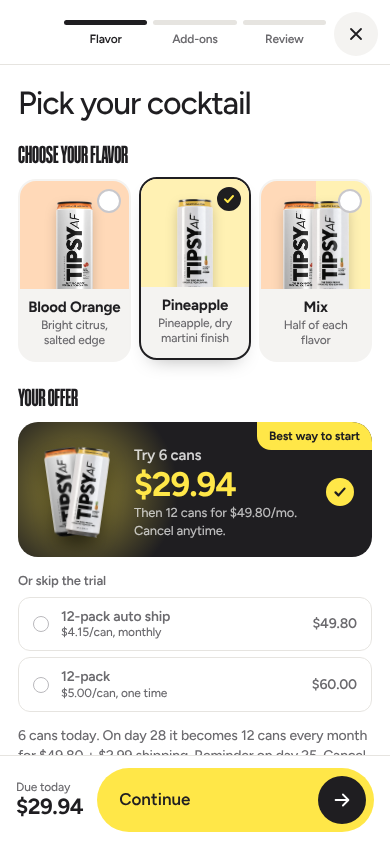
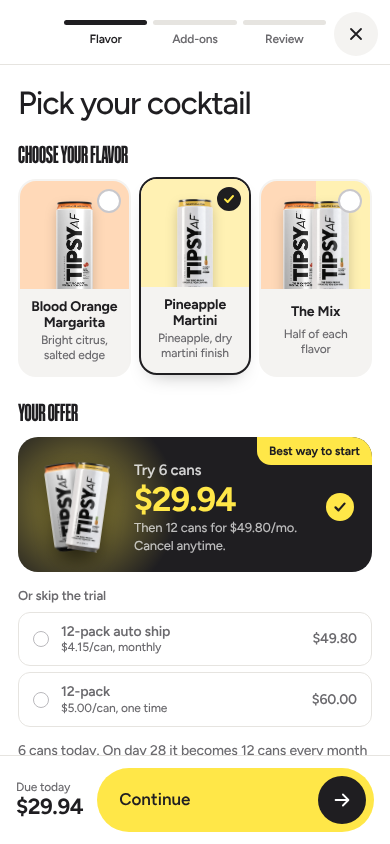
v3: flavor tiles with full names plus three new directions
Tiles (chosen base) now show Blood Orange Margarita and Pineapple Martini.
Adds shelf, pop and chips directions for comparison; drops rows and switch.

Claude-Session: https://claude.ai/code/session_014FM66vq5zwtojFZzRdgT7G

diff --git a/tipsy-af-v3/preview/index.html b/tipsy-af-v3/preview/index.html
@@ -618,46 +618,59 @@ body { margin: 0; background: #fff; }
 .tpm-ftile__box .tpm-fcheck { position: absolute; top: 8px; right: 8px; z-index: 1; width: 24px; height: 24px; }
 .tpm-ftile__img { width: 100%; height: 108px; display: flex; align-items: flex-end; justify-content: center; background: var(--f-bg); margin-bottom: 10px; overflow: hidden; }
 .tpm-ftile__img > img, .tpm-ftile__img .tpm-can-pair img { height: 96px; width: auto; transform: translateY(8px); filter: drop-shadow(0 6px 6px rgba(0,0,0,.18)); }
-.tpm-ftile__name { font-weight: 700; font-size: 15px; letter-spacing: -0.01em; line-height: 1.15; padding: 0 6px; }
+.tpm-ftile__name { font-weight: 700; font-size: 14px; letter-spacing: -0.01em; line-height: 1.15; padding: 0 6px; }
 .tpm-ftile__note { font-size: 12px; color: var(--tpm-muted); line-height: 1.25; padding: 2px 8px 0; }
 .tpm-ftile input:checked + .tpm-ftile__box { border-color: var(--tpm-ink); transform: translateY(-2px); box-shadow: 0 10px 20px -12px rgba(0,0,0,.35); }
 .tpm-step .tpm-ftile__box { background: var(--tpm-panel); }
-
-/* 2. Rows: full-width radio list */
-.tpm-frows { display: grid; gap: 8px; }
-.tpm-frow { display: block; cursor: pointer; }
-.tpm-frow__box { display: grid; grid-template-columns: 64px 1fr auto; gap: 14px; align-items: center; padding: 8px 14px 8px 8px; border-radius: 16px; background: #fff; border: 2.5px solid transparent; transition: border-color .15s; }
-.tpm-frow__img { height: 64px; border-radius: 12px; background: var(--f-bg); display: flex; align-items: flex-end; justify-content: center; overflow: hidden; }
-.tpm-frow__img > img, .tpm-frow__img .tpm-can-pair img { height: 58px; width: auto; transform: translateY(6px); }
-.tpm-frow__text { display: grid; line-height: 1.25; }
-.tpm-frow__text strong { font-size: 16px; }
-.tpm-frow__text span { font-size: 13px; color: var(--tpm-muted); }
-.tpm-frow input:checked + .tpm-frow__box { border-color: var(--tpm-ink); }
-.tpm-step .tpm-frow__box { background: var(--tpm-panel); }
-
-/* 3. Switch: segmented control + big preview of the choice */
-.tpm-fseg { display: flex; gap: 4px; padding: 4px; border-radius: 999px; background: #fff; margin-bottom: 10px; }
-.tpm-step .tpm-fseg { background: var(--tpm-panel); }
-.tpm-fseg__opt { flex: 1 1 auto; position: relative; cursor: pointer; }
-.tpm-fseg__opt span { display: block; text-align: center; padding: 12px 10px; border-radius: 999px; font-weight: 700; font-size: 15px; white-space: nowrap; transition: background-color .15s, color .15s; }
-.tpm-fseg__opt input:checked + span { background: var(--tpm-ink); color: #fff; }
-.tpm-fstage__panel { display: grid; grid-template-columns: 110px 1fr; gap: 16px; align-items: center; border-radius: 20px; background: var(--f-bg); padding: 0 18px 0 6px; height: 132px; overflow: hidden; }
-.tpm-fstage__panel[hidden] { display: none; }
-.tpm-fstage__img { display: flex; align-items: flex-end; justify-content: center; height: 100%; }
-.tpm-fstage__img > img, .tpm-fstage__img .tpm-can-pair img { height: 128px; width: auto; transform: translateY(14px) rotate(-6deg); filter: drop-shadow(0 10px 10px rgba(0,0,0,.2)); }
-.tpm-fstage__text { display: grid; line-height: 1.2; }
-.tpm-fstage__text strong { font-family: var(--tpm-cond); text-transform: uppercase; font-size: 30px; font-weight: 400; line-height: .95; }
-.tpm-fstage__text span { font-size: 14px; color: #4a4630; margin-top: 4px; }
-@media (prefers-reduced-motion: no-preference) {
-  .tpm-fstage__panel:not([hidden]) { animation: tpm-fstage-in .3s ease; }
-}
-@keyframes tpm-fstage-in { from { opacity: 0; transform: translateY(6px); } to { opacity: 1; transform: none; } }
 
 /* Preview-only design switcher */
 .tpm-styleswitch { position: fixed; left: 50%; top: 10px; transform: translateX(-50%); z-index: 2147483000; display: flex; align-items: center; gap: 4px; padding: 5px 5px 5px 14px; border-radius: 999px; background: rgba(31,30,33,.92); color: #fff; font-size: 13px; font-weight: 600; box-shadow: 0 8px 24px rgba(0,0,0,.25); }
 .tpm-styleswitch span { margin-right: 6px; white-space: nowrap; }
 .tpm-styleswitch button { width: 34px; height: 34px; border-radius: 50%; border: 0; background: rgba(255,255,255,.12); color: #fff; font-weight: 700; cursor: pointer; }
 .tpm-styleswitch button[aria-pressed="true"] { background: var(--tpm-accent); color: var(--tpm-ink); }
+
+/* 2. Shelf: cans on a shelf, chosen can rises into a spotlight */
+.tpm-shelf { position: relative; display: grid; grid-template-columns: repeat(3, 1fr); align-items: end; padding: 18px 4px 0; border-radius: 20px; background: var(--tpm-ink); overflow: hidden; }
+.tpm-shelf::after { content: ""; position: absolute; left: 0; right: 0; bottom: 64px; height: 6px; background: rgba(255,255,255,.12); }
+.tpm-shelf__opt { position: relative; display: block; cursor: pointer; }
+.tpm-shelf__box { position: relative; display: grid; justify-items: center; text-align: center; padding-bottom: 12px; }
+.tpm-shelf__box::before { content: ""; position: absolute; left: 50%; bottom: 70px; width: 140px; height: 140px; margin-left: -70px; border-radius: 50%; background: radial-gradient(closest-side, var(--f-deep), rgba(0,0,0,0)); opacity: 0; transition: opacity .25s; }
+.tpm-shelf__img { position: relative; z-index: 1; height: 132px; display: flex; align-items: flex-end; justify-content: center; transition: transform .3s cubic-bezier(.3,1.5,.5,1), filter .25s; filter: grayscale(.6) brightness(.7); }
+.tpm-shelf__img > img, .tpm-shelf__img .tpm-can-pair img { height: 118px; width: auto; filter: drop-shadow(0 8px 8px rgba(0,0,0,.4)); }
+.tpm-shelf__name { position: relative; z-index: 1; margin-top: 14px; min-height: 34px; font-size: 13px; font-weight: 600; line-height: 1.25; color: rgba(255,255,255,.55); padding: 0 4px; }
+.tpm-shelf__opt input:checked + .tpm-shelf__box::before { opacity: .7; }
+.tpm-shelf__opt input:checked + .tpm-shelf__box .tpm-shelf__img { transform: translateY(-10px) scale(1.08); filter: none; }
+.tpm-shelf__opt input:checked + .tpm-shelf__box .tpm-shelf__name { color: #fff; }
+.tpm-shelf__opt input:checked + .tpm-shelf__box .tpm-shelf__name::after { content: ""; display: block; width: 22px; height: 3px; border-radius: 3px; background: var(--tpm-accent); margin: 6px auto 0; }
+.tpm-shelf__note { margin-top: 10px; font-size: 14px; color: var(--tpm-muted); text-align: center; }
+
+/* 3. Pop: full-color cards, can breaking out of the top */
+.tpm-pop { display: grid; grid-template-columns: repeat(3, 1fr); gap: 8px; padding-top: 34px; }
+.tpm-pop__opt { position: relative; display: block; cursor: pointer; }
+.tpm-pop__box { position: relative; display: grid; justify-items: center; text-align: center; height: 100%; padding: 76px 8px 14px; border-radius: 18px; background: var(--f-bg); border: 2.5px solid transparent; transition: transform .2s, border-color .15s, opacity .2s; }
+.tpm-pop__img { position: absolute; top: -34px; left: 0; right: 0; display: flex; justify-content: center; }
+.tpm-pop__img > img, .tpm-pop__img .tpm-can-pair img { height: 104px; width: auto; filter: drop-shadow(0 10px 10px rgba(0,0,0,.25)); transition: transform .25s cubic-bezier(.3,1.5,.5,1); }
+.tpm-pop__box .tpm-fcheck { position: absolute; top: 8px; right: 8px; width: 22px; height: 22px; }
+.tpm-pop__name { font-family: var(--tpm-cond); text-transform: uppercase; font-size: 20px; line-height: .95; }
+.tpm-pop__note { font-size: 12px; color: #5a4a2a; line-height: 1.25; margin-top: 4px; }
+.tpm-pop__opt input:not(:checked) + .tpm-pop__box { opacity: .6; }
+.tpm-pop__opt input:checked + .tpm-pop__box { border-color: var(--tpm-ink); transform: translateY(-3px); }
+.tpm-pop__opt input:checked + .tpm-pop__box .tpm-pop__img img { transform: rotate(-6deg) scale(1.06); }
+
+/* 4. Chips: compact, chosen one expands with its note */
+.tpm-chips { display: flex; flex-wrap: wrap; gap: 8px; }
+.tpm-chip2 { position: relative; display: block; cursor: pointer; flex: 1 1 100%; }
+.tpm-chip2.tpm-f--mix { flex-basis: 100%; }
+.tpm-chip2__box { display: grid; grid-template-columns: 44px 1fr auto; gap: 10px; align-items: center; padding: 6px 12px 6px 6px; border-radius: 999px; background: #fff; border: 2.5px solid transparent; transition: border-color .15s, border-radius .2s; }
+.tpm-step .tpm-chip2__box { background: var(--tpm-panel); }
+.tpm-chip2__img { width: 44px; height: 44px; border-radius: 50%; background: var(--f-bg); display: flex; align-items: flex-end; justify-content: center; overflow: hidden; }
+.tpm-chip2__img > img, .tpm-chip2__img .tpm-can-pair img { height: 40px; width: auto; transform: translateY(5px); }
+.tpm-chip2__text { display: grid; line-height: 1.2; min-width: 0; }
+.tpm-chip2__text strong { font-size: 14px; }
+.tpm-chip2__text span { display: none; font-size: 12px; color: var(--tpm-muted); }
+.tpm-chip2__box .tpm-fcheck { width: 22px; height: 22px; }
+.tpm-chip2 input:checked + .tpm-chip2__box { border-color: var(--tpm-ink); border-radius: 18px; }
+.tpm-chip2 input:checked + .tpm-chip2__box .tpm-chip2__text span { display: block; }
 
 </style>
 </head>
@@ -1236,8 +1249,8 @@ body { margin: 0; background: #fff; }
   }
 
   var pickerCount = 0;
-  // Flavor selector design direction: 'tiles', 'rows' or 'switch'.
-  var FLAVOR_STYLES = ['tiles', 'rows', 'switch'];
+  // Flavor selector design direction: 'tiles' (chosen), 'shelf', 'pop' or 'chips'.
+  var FLAVOR_STYLES = ['tiles', 'shelf', 'pop', 'chips'];
   var flavorStyle = String(DATA.flavorStyle || '').trim();
   if (MODE === 'preview') {
     var fq = (window.location.search.match(/[?&]flavor=(\w+)/) || [])[1];
@@ -1252,27 +1265,37 @@ body { margin: 0; background: #fff; }
   function flavorsHtml(n) {
     var keys = Object.keys(DATA.flavors);
     var legend = '<legend class="tpm-pick__label">Choose your flavor</legend>';
-    if (flavorStyle === 'rows') {
-      return '<fieldset class="tpm-flav tpm-flav--rows">' + legend + '<div class="tpm-frows">' + keys.map(function (f) {
+    var wrap = function (mod, inner) { return '<fieldset class="tpm-flav tpm-flav--' + mod + '">' + legend + inner + '</fieldset>'; };
+
+    if (flavorStyle === 'shelf') {
+      // Cans standing on a shelf; the chosen can rises into a spotlight.
+      return wrap('shelf', '<div class="tpm-shelf">' + keys.map(function (f) {
         var d = DATA.flavors[f];
-        return flavorRadio(n, f, 'tpm-frow', '<span class="tpm-frow__box"><span class="tpm-frow__img">' + canStack(f) + '</span>' +
-          '<span class="tpm-frow__text"><strong>' + d.name + '</strong><span>' + d.note + '</span></span>' + CHECK + '</span>');
-      }).join('') + '</div></fieldset>';
+        return flavorRadio(n, f, 'tpm-shelf__opt', '<span class="tpm-shelf__box"><span class="tpm-shelf__img">' + canStack(f) + '</span>' +
+          '<span class="tpm-shelf__name">' + d.name + '</span></span>');
+      }).join('') + '</div><p class="tpm-shelf__note" data-tpm-fnote></p>');
     }
-    if (flavorStyle === 'switch') {
-      return '<fieldset class="tpm-flav tpm-flav--switch">' + legend + '<div class="tpm-fseg">' + keys.map(function (f) {
-        return flavorRadio(n, f, 'tpm-fseg__opt', '<span>' + DATA.flavors[f].short + '</span>');
-      }).join('') + '</div><div class="tpm-fstage">' + keys.map(function (f) {
+    if (flavorStyle === 'pop') {
+      // Full-color cards with the can breaking out of the top edge.
+      return wrap('pop', '<div class="tpm-pop">' + keys.map(function (f) {
         var d = DATA.flavors[f];
-        return '<div class="tpm-fstage__panel tpm-f--' + f + '" data-tpm-fpanel="' + f + '" hidden><span class="tpm-fstage__img">' + canStack(f) + '</span>' +
-          '<span class="tpm-fstage__text"><strong>' + d.name + '</strong><span>' + d.note + '</span></span></div>';
-      }).join('') + '</div></fieldset>';
+        return flavorRadio(n, f, 'tpm-pop__opt', '<span class="tpm-pop__box"><span class="tpm-pop__img">' + canStack(f) + '</span>' + CHECK +
+          '<span class="tpm-pop__name">' + d.name + '</span><span class="tpm-pop__note">' + d.note + '</span></span>');
+      }).join('') + '</div>');
     }
-    return '<fieldset class="tpm-flav tpm-flav--tiles">' + legend + '<div class="tpm-ftiles">' + keys.map(function (f) {
+    if (flavorStyle === 'chips') {
+      // Compact chips; the chosen one expands with its taste note.
+      return wrap('chips', '<div class="tpm-chips">' + keys.map(function (f) {
+        var d = DATA.flavors[f];
+        return flavorRadio(n, f, 'tpm-chip2', '<span class="tpm-chip2__box"><span class="tpm-chip2__img">' + canStack(f) + '</span>' +
+          '<span class="tpm-chip2__text"><strong>' + d.name + '</strong><span>' + d.note + '</span></span>' + CHECK + '</span>');
+      }).join('') + '</div>');
+    }
+    return wrap('tiles', '<div class="tpm-ftiles">' + keys.map(function (f) {
       var d = DATA.flavors[f];
       return flavorRadio(n, f, 'tpm-ftile', '<span class="tpm-ftile__box">' + CHECK + '<span class="tpm-ftile__img">' + canStack(f) + '</span>' +
-        '<span class="tpm-ftile__name">' + d.short + '</span><span class="tpm-ftile__note">' + d.note + '</span></span>');
-    }).join('') + '</div></fieldset>';
+        '<span class="tpm-ftile__name">' + d.name + '</span><span class="tpm-ftile__note">' + d.note + '</span></span>');
+    }).join('') + '</div>');
   }
 
   function pickerHtml(n) {
@@ -1467,7 +1490,7 @@ body { margin: 0; background: #fff; }
       i.checked = (i.name.indexOf('tpm-flavor-') === 0 && i.value === state.flavor) ||
         (i.name.indexOf('tpm-offer-') === 0 && i.value === state.offer);
     });
-    $all('[data-tpm-fpanel]').forEach(function (p) { p.hidden = p.getAttribute('data-tpm-fpanel') !== state.flavor; });
+    $all('[data-tpm-fnote]').forEach(function (p) { p.textContent = DATA.flavors[state.flavor].note; });
     $all('[data-tpm-terms]').forEach(function (t) {
       t.textContent = (state.flavor === 'mix' ? o.split + '. ' : '') + o.terms;
     });

diff --git a/tipsy-af-v3/src/page.css b/tipsy-af-v3/src/page.css
@@ -596,43 +596,56 @@
 .tpm-ftile__box .tpm-fcheck { position: absolute; top: 8px; right: 8px; z-index: 1; width: 24px; height: 24px; }
 .tpm-ftile__img { width: 100%; height: 108px; display: flex; align-items: flex-end; justify-content: center; background: var(--f-bg); margin-bottom: 10px; overflow: hidden; }
 .tpm-ftile__img > img, .tpm-ftile__img .tpm-can-pair img { height: 96px; width: auto; transform: translateY(8px); filter: drop-shadow(0 6px 6px rgba(0,0,0,.18)); }
-.tpm-ftile__name { font-weight: 700; font-size: 15px; letter-spacing: -0.01em; line-height: 1.15; padding: 0 6px; }
+.tpm-ftile__name { font-weight: 700; font-size: 14px; letter-spacing: -0.01em; line-height: 1.15; padding: 0 6px; }
 .tpm-ftile__note { font-size: 12px; color: var(--tpm-muted); line-height: 1.25; padding: 2px 8px 0; }
 .tpm-ftile input:checked + .tpm-ftile__box { border-color: var(--tpm-ink); transform: translateY(-2px); box-shadow: 0 10px 20px -12px rgba(0,0,0,.35); }
 .tpm-step .tpm-ftile__box { background: var(--tpm-panel); }
-
-/* 2. Rows: full-width radio list */
-.tpm-frows { display: grid; gap: 8px; }
-.tpm-frow { display: block; cursor: pointer; }
-.tpm-frow__box { display: grid; grid-template-columns: 64px 1fr auto; gap: 14px; align-items: center; padding: 8px 14px 8px 8px; border-radius: 16px; background: #fff; border: 2.5px solid transparent; transition: border-color .15s; }
-.tpm-frow__img { height: 64px; border-radius: 12px; background: var(--f-bg); display: flex; align-items: flex-end; justify-content: center; overflow: hidden; }
-.tpm-frow__img > img, .tpm-frow__img .tpm-can-pair img { height: 58px; width: auto; transform: translateY(6px); }
-.tpm-frow__text { display: grid; line-height: 1.25; }
-.tpm-frow__text strong { font-size: 16px; }
-.tpm-frow__text span { font-size: 13px; color: var(--tpm-muted); }
-.tpm-frow input:checked + .tpm-frow__box { border-color: var(--tpm-ink); }
-.tpm-step .tpm-frow__box { background: var(--tpm-panel); }
-
-/* 3. Switch: segmented control + big preview of the choice */
-.tpm-fseg { display: flex; gap: 4px; padding: 4px; border-radius: 999px; background: #fff; margin-bottom: 10px; }
-.tpm-step .tpm-fseg { background: var(--tpm-panel); }
-.tpm-fseg__opt { flex: 1 1 auto; position: relative; cursor: pointer; }
-.tpm-fseg__opt span { display: block; text-align: center; padding: 12px 10px; border-radius: 999px; font-weight: 700; font-size: 15px; white-space: nowrap; transition: background-color .15s, color .15s; }
-.tpm-fseg__opt input:checked + span { background: var(--tpm-ink); color: #fff; }
-.tpm-fstage__panel { display: grid; grid-template-columns: 110px 1fr; gap: 16px; align-items: center; border-radius: 20px; background: var(--f-bg); padding: 0 18px 0 6px; height: 132px; overflow: hidden; }
-.tpm-fstage__panel[hidden] { display: none; }
-.tpm-fstage__img { display: flex; align-items: flex-end; justify-content: center; height: 100%; }
-.tpm-fstage__img > img, .tpm-fstage__img .tpm-can-pair img { height: 128px; width: auto; transform: translateY(14px) rotate(-6deg); filter: drop-shadow(0 10px 10px rgba(0,0,0,.2)); }
-.tpm-fstage__text { display: grid; line-height: 1.2; }
-.tpm-fstage__text strong { font-family: var(--tpm-cond); text-transform: uppercase; font-size: 30px; font-weight: 400; line-height: .95; }
-.tpm-fstage__text span { font-size: 14px; color: #4a4630; margin-top: 4px; }
-@media (prefers-reduced-motion: no-preference) {
-  .tpm-fstage__panel:not([hidden]) { animation: tpm-fstage-in .3s ease; }
-}
-@keyframes tpm-fstage-in { from { opacity: 0; transform: translateY(6px); } to { opacity: 1; transform: none; } }
 
 /* Preview-only design switcher */
 .tpm-styleswitch { position: fixed; left: 50%; top: 10px; transform: translateX(-50%); z-index: 2147483000; display: flex; align-items: center; gap: 4px; padding: 5px 5px 5px 14px; border-radius: 999px; background: rgba(31,30,33,.92); color: #fff; font-size: 13px; font-weight: 600; box-shadow: 0 8px 24px rgba(0,0,0,.25); }
 .tpm-styleswitch span { margin-right: 6px; white-space: nowrap; }
 .tpm-styleswitch button { width: 34px; height: 34px; border-radius: 50%; border: 0; background: rgba(255,255,255,.12); color: #fff; font-weight: 700; cursor: pointer; }
 .tpm-styleswitch button[aria-pressed="true"] { background: var(--tpm-accent); color: var(--tpm-ink); }
+
+/* 2. Shelf: cans on a shelf, chosen can rises into a spotlight */
+.tpm-shelf { position: relative; display: grid; grid-template-columns: repeat(3, 1fr); align-items: end; padding: 18px 4px 0; border-radius: 20px; background: var(--tpm-ink); overflow: hidden; }
+.tpm-shelf::after { content: ""; position: absolute; left: 0; right: 0; bottom: 64px; height: 6px; background: rgba(255,255,255,.12); }
+.tpm-shelf__opt { position: relative; display: block; cursor: pointer; }
+.tpm-shelf__box { position: relative; display: grid; justify-items: center; text-align: center; padding-bottom: 12px; }
+.tpm-shelf__box::before { content: ""; position: absolute; left: 50%; bottom: 70px; width: 140px; height: 140px; margin-left: -70px; border-radius: 50%; background: radial-gradient(closest-side, var(--f-deep), rgba(0,0,0,0)); opacity: 0; transition: opacity .25s; }
+.tpm-shelf__img { position: relative; z-index: 1; height: 132px; display: flex; align-items: flex-end; justify-content: center; transition: transform .3s cubic-bezier(.3,1.5,.5,1), filter .25s; filter: grayscale(.6) brightness(.7); }
+.tpm-shelf__img > img, .tpm-shelf__img .tpm-can-pair img { height: 118px; width: auto; filter: drop-shadow(0 8px 8px rgba(0,0,0,.4)); }
+.tpm-shelf__name { position: relative; z-index: 1; margin-top: 14px; min-height: 34px; font-size: 13px; font-weight: 600; line-height: 1.25; color: rgba(255,255,255,.55); padding: 0 4px; }
+.tpm-shelf__opt input:checked + .tpm-shelf__box::before { opacity: .7; }
+.tpm-shelf__opt input:checked + .tpm-shelf__box .tpm-shelf__img { transform: translateY(-10px) scale(1.08); filter: none; }
+.tpm-shelf__opt input:checked + .tpm-shelf__box .tpm-shelf__name { color: #fff; }
+.tpm-shelf__opt input:checked + .tpm-shelf__box .tpm-shelf__name::after { content: ""; display: block; width: 22px; height: 3px; border-radius: 3px; background: var(--tpm-accent); margin: 6px auto 0; }
+.tpm-shelf__note { margin-top: 10px; font-size: 14px; color: var(--tpm-muted); text-align: center; }
+
+/* 3. Pop: full-color cards, can breaking out of the top */
+.tpm-pop { display: grid; grid-template-columns: repeat(3, 1fr); gap: 8px; padding-top: 34px; }
+.tpm-pop__opt { position: relative; display: block; cursor: pointer; }
+.tpm-pop__box { position: relative; display: grid; justify-items: center; text-align: center; height: 100%; padding: 76px 8px 14px; border-radius: 18px; background: var(--f-bg); border: 2.5px solid transparent; transition: transform .2s, border-color .15s, opacity .2s; }
+.tpm-pop__img { position: absolute; top: -34px; left: 0; right: 0; display: flex; justify-content: center; }
+.tpm-pop__img > img, .tpm-pop__img .tpm-can-pair img { height: 104px; width: auto; filter: drop-shadow(0 10px 10px rgba(0,0,0,.25)); transition: transform .25s cubic-bezier(.3,1.5,.5,1); }
+.tpm-pop__box .tpm-fcheck { position: absolute; top: 8px; right: 8px; width: 22px; height: 22px; }
+.tpm-pop__name { font-family: var(--tpm-cond); text-transform: uppercase; font-size: 20px; line-height: .95; }
+.tpm-pop__note { font-size: 12px; color: #5a4a2a; line-height: 1.25; margin-top: 4px; }
+.tpm-pop__opt input:not(:checked) + .tpm-pop__box { opacity: .6; }
+.tpm-pop__opt input:checked + .tpm-pop__box { border-color: var(--tpm-ink); transform: translateY(-3px); }
+.tpm-pop__opt input:checked + .tpm-pop__box .tpm-pop__img img { transform: rotate(-6deg) scale(1.06); }
+
+/* 4. Chips: compact, chosen one expands with its note */
+.tpm-chips { display: flex; flex-wrap: wrap; gap: 8px; }
+.tpm-chip2 { position: relative; display: block; cursor: pointer; flex: 1 1 100%; }
+.tpm-chip2.tpm-f--mix { flex-basis: 100%; }
+.tpm-chip2__box { display: grid; grid-template-columns: 44px 1fr auto; gap: 10px; align-items: center; padding: 6px 12px 6px 6px; border-radius: 999px; background: #fff; border: 2.5px solid transparent; transition: border-color .15s, border-radius .2s; }
+.tpm-step .tpm-chip2__box { background: var(--tpm-panel); }
+.tpm-chip2__img { width: 44px; height: 44px; border-radius: 50%; background: var(--f-bg); display: flex; align-items: flex-end; justify-content: center; overflow: hidden; }
+.tpm-chip2__img > img, .tpm-chip2__img .tpm-can-pair img { height: 40px; width: auto; transform: translateY(5px); }
+.tpm-chip2__text { display: grid; line-height: 1.2; min-width: 0; }
+.tpm-chip2__text strong { font-size: 14px; }
+.tpm-chip2__text span { display: none; font-size: 12px; color: var(--tpm-muted); }
+.tpm-chip2__box .tpm-fcheck { width: 22px; height: 22px; }
+.tpm-chip2 input:checked + .tpm-chip2__box { border-color: var(--tpm-ink); border-radius: 18px; }
+.tpm-chip2 input:checked + .tpm-chip2__box .tpm-chip2__text span { display: block; }

diff --git a/tipsy-af-v3/src/page.js b/tipsy-af-v3/src/page.js
@@ -114,8 +114,8 @@
   }
 
   var pickerCount = 0;
-  // Flavor selector design direction: 'tiles', 'rows' or 'switch'.
-  var FLAVOR_STYLES = ['tiles', 'rows', 'switch'];
+  // Flavor selector design direction: 'tiles' (chosen), 'shelf', 'pop' or 'chips'.
+  var FLAVOR_STYLES = ['tiles', 'shelf', 'pop', 'chips'];
   var flavorStyle = String(DATA.flavorStyle || '').trim();
   if (MODE === 'preview') {
     var fq = (window.location.search.match(/[?&]flavor=(\w+)/) || [])[1];
@@ -130,27 +130,37 @@
   function flavorsHtml(n) {
     var keys = Object.keys(DATA.flavors);
     var legend = '<legend class="tpm-pick__label">Choose your flavor</legend>';
-    if (flavorStyle === 'rows') {
-      return '<fieldset class="tpm-flav tpm-flav--rows">' + legend + '<div class="tpm-frows">' + keys.map(function (f) {
+    var wrap = function (mod, inner) { return '<fieldset class="tpm-flav tpm-flav--' + mod + '">' + legend + inner + '</fieldset>'; };
+
+    if (flavorStyle === 'shelf') {
+      // Cans standing on a shelf; the chosen can rises into a spotlight.
+      return wrap('shelf', '<div class="tpm-shelf">' + keys.map(function (f) {
         var d = DATA.flavors[f];
-        return flavorRadio(n, f, 'tpm-frow', '<span class="tpm-frow__box"><span class="tpm-frow__img">' + canStack(f) + '</span>' +
-          '<span class="tpm-frow__text"><strong>' + d.name + '</strong><span>' + d.note + '</span></span>' + CHECK + '</span>');
-      }).join('') + '</div></fieldset>';
+        return flavorRadio(n, f, 'tpm-shelf__opt', '<span class="tpm-shelf__box"><span class="tpm-shelf__img">' + canStack(f) + '</span>' +
+          '<span class="tpm-shelf__name">' + d.name + '</span></span>');
+      }).join('') + '</div><p class="tpm-shelf__note" data-tpm-fnote></p>');
     }
-    if (flavorStyle === 'switch') {
-      return '<fieldset class="tpm-flav tpm-flav--switch">' + legend + '<div class="tpm-fseg">' + keys.map(function (f) {
-        return flavorRadio(n, f, 'tpm-fseg__opt', '<span>' + DATA.flavors[f].short + '</span>');
-      }).join('') + '</div><div class="tpm-fstage">' + keys.map(function (f) {
+    if (flavorStyle === 'pop') {
+      // Full-color cards with the can breaking out of the top edge.
+      return wrap('pop', '<div class="tpm-pop">' + keys.map(function (f) {
         var d = DATA.flavors[f];
-        return '<div class="tpm-fstage__panel tpm-f--' + f + '" data-tpm-fpanel="' + f + '" hidden><span class="tpm-fstage__img">' + canStack(f) + '</span>' +
-          '<span class="tpm-fstage__text"><strong>' + d.name + '</strong><span>' + d.note + '</span></span></div>';
-      }).join('') + '</div></fieldset>';
+        return flavorRadio(n, f, 'tpm-pop__opt', '<span class="tpm-pop__box"><span class="tpm-pop__img">' + canStack(f) + '</span>' + CHECK +
+          '<span class="tpm-pop__name">' + d.name + '</span><span class="tpm-pop__note">' + d.note + '</span></span>');
+      }).join('') + '</div>');
     }
-    return '<fieldset class="tpm-flav tpm-flav--tiles">' + legend + '<div class="tpm-ftiles">' + keys.map(function (f) {
+    if (flavorStyle === 'chips') {
+      // Compact chips; the chosen one expands with its taste note.
+      return wrap('chips', '<div class="tpm-chips">' + keys.map(function (f) {
+        var d = DATA.flavors[f];
+        return flavorRadio(n, f, 'tpm-chip2', '<span class="tpm-chip2__box"><span class="tpm-chip2__img">' + canStack(f) + '</span>' +
+          '<span class="tpm-chip2__text"><strong>' + d.name + '</strong><span>' + d.note + '</span></span>' + CHECK + '</span>');
+      }).join('') + '</div>');
+    }
+    return wrap('tiles', '<div class="tpm-ftiles">' + keys.map(function (f) {
       var d = DATA.flavors[f];
       return flavorRadio(n, f, 'tpm-ftile', '<span class="tpm-ftile__box">' + CHECK + '<span class="tpm-ftile__img">' + canStack(f) + '</span>' +
-        '<span class="tpm-ftile__name">' + d.short + '</span><span class="tpm-ftile__note">' + d.note + '</span></span>');
-    }).join('') + '</div></fieldset>';
+        '<span class="tpm-ftile__name">' + d.name + '</span><span class="tpm-ftile__note">' + d.note + '</span></span>');
+    }).join('') + '</div>');
   }
 
   function pickerHtml(n) {
@@ -345,7 +355,7 @@
       i.checked = (i.name.indexOf('tpm-flavor-') === 0 && i.value === state.flavor) ||
         (i.name.indexOf('tpm-offer-') === 0 && i.value === state.offer);
     });
-    $all('[data-tpm-fpanel]').forEach(function (p) { p.hidden = p.getAttribute('data-tpm-fpanel') !== state.flavor; });
+    $all('[data-tpm-fnote]').forEach(function (p) { p.textContent = DATA.flavors[state.flavor].note; });
     $all('[data-tpm-terms]').forEach(function (t) {
       t.textContent = (state.flavor === 'mix' ? o.split + '. ' : '') + o.terms;
     });
